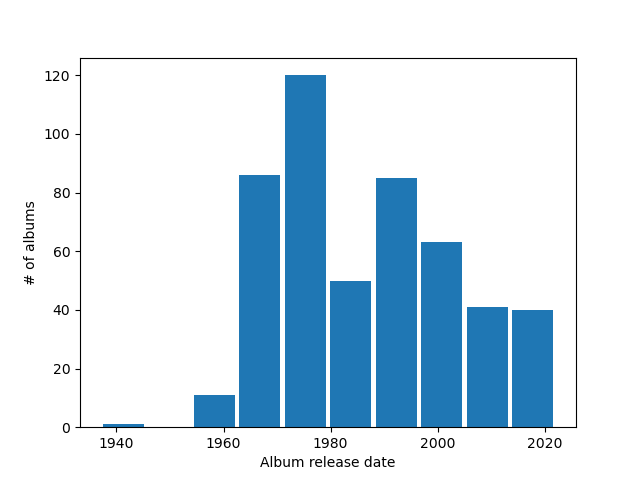
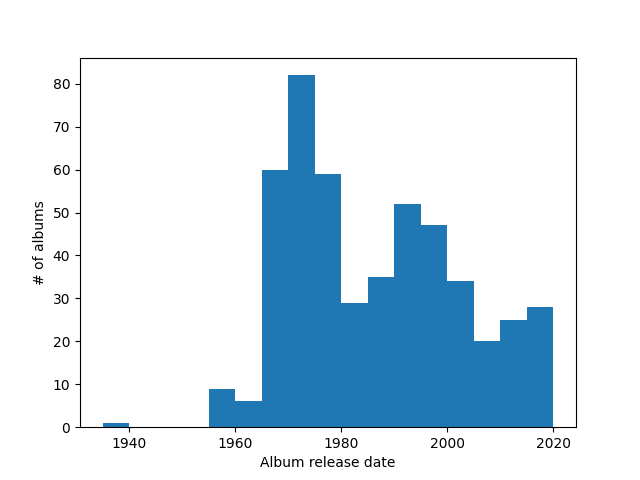
Data chracterization commit

diff --git a/src/data_characterization/album_distribution_by_year.py b/src/data_characterization/album_distribution_by_year.py
@@ -4,10 +4,11 @@ import pandas as pd
 
 filename = argv[1]
 
-df = pd.read_csv(filename, sep=';')
-data_by_album = df.groupby(['album', 'artist'])
-data_by_album_first = data_by_album.first()
-plt.hist(data_by_album_first['album_release_date'].values, 10, rwidth=0.9)
+df = pd.read_csv(filename, sep=";")
+
+df_group = df.groupby('album')['album_release_date'].max()
+
+plt.hist(df_group, range(1935, 2025, 5))
 plt.xlabel('Album release date')
 plt.ylabel('# of albums')
 plt.savefig('analysis/album_distribution_by_year.png')

diff --git a/src/data_characterization/song_distribution_by_duration.py b/src/data_characterization/song_distribution_by_duration.py
@@ -5,8 +5,8 @@ import pandas as pd
 filename = argv[1]
 
 df = pd.read_csv(filename, sep=';')
-plt.hist(df['track_duration (s)'].values, 30, rwidth=0.9)
+plt.hist(df['track_duration (s)'].values, 30)
 plt.savefig('analysis/song_distribution_by_duration.png')
 plt.yscale('log', nonposy='clip')
-plt.hist(df['track_duration (s)'].values, 30, rwidth=0.9, )
+plt.hist(df['track_duration (s)'].values, 30)
 plt.savefig('analysis/song_distribution_by_duration_log.png')

diff --git a/src/data_characterization/album_distribution_by_duration.py b/src/data_characterization/album_distribution_by_duration.py
@@ -7,7 +7,7 @@ filename = argv[1]
 df = pd.read_csv(filename, sep=';')
 albums_durations = df.groupby(['album', 'artist'])['track_duration (s)'].sum()
 albums_durations = albums_durations.apply(lambda x: x/60).values
-plt.hist(albums_durations, 20, rwidth=0.9)
+plt.hist(albums_durations, 20)
 plt.xlabel('Album duration (min)')
 plt.ylabel('# of albums')
 plt.savefig('analysis/album_distribution_by_duration.png')

diff --git a/src/data_characterization/album_distribution_by_mean_song_duration.py b/src/data_characterization/album_distribution_by_mean_song_duration.py
@@ -8,7 +8,7 @@ df = pd.read_csv(filename, sep=';')
 data_by_album = df.groupby(['album', 'artist'])['track_duration (s)'].mean()
 albums_means = data_by_album.apply(lambda x: x / 60).values
 
-plt.hist(albums_means, 20, rwidth=0.9)
+plt.hist(albums_means, 20)
 plt.xlabel("Album mean track duration (min)")
 plt.ylabel('# of albums')
 plt.savefig('analysis/album_distribution_by_mean_song_duration.png')

diff --git a/src/data_characterization/lyrics_existence.py b/src/data_characterization/lyrics_existence.py
@@ -8,6 +8,6 @@ df = pd.read_csv(filename, sep=';')
 hasnot = df['lyrics'].isna().sum()
 has = df['lyrics'].shape[0] - hasnot
 
-plt.bar(['has', 'has not'], [has, hasnot], color ='maroon')
+plt.bar(['has', 'has not'], [has, hasnot])
 plt.ylabel('# of tracks')
 plt.savefig('analysis/tracks_lyrics_existence.png')
